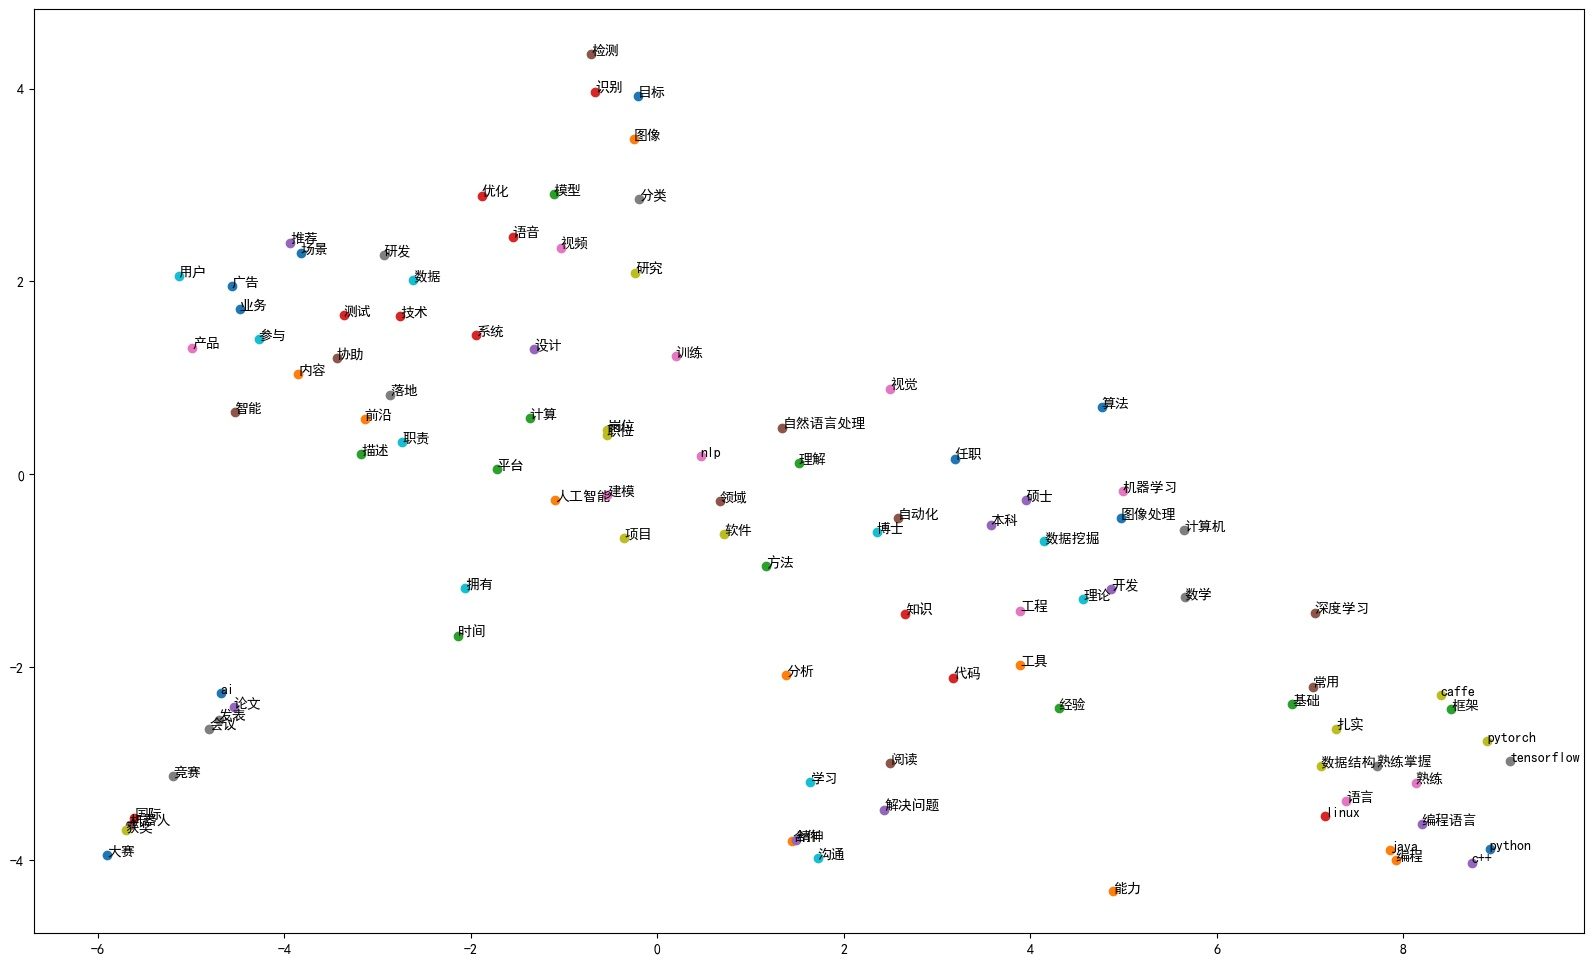
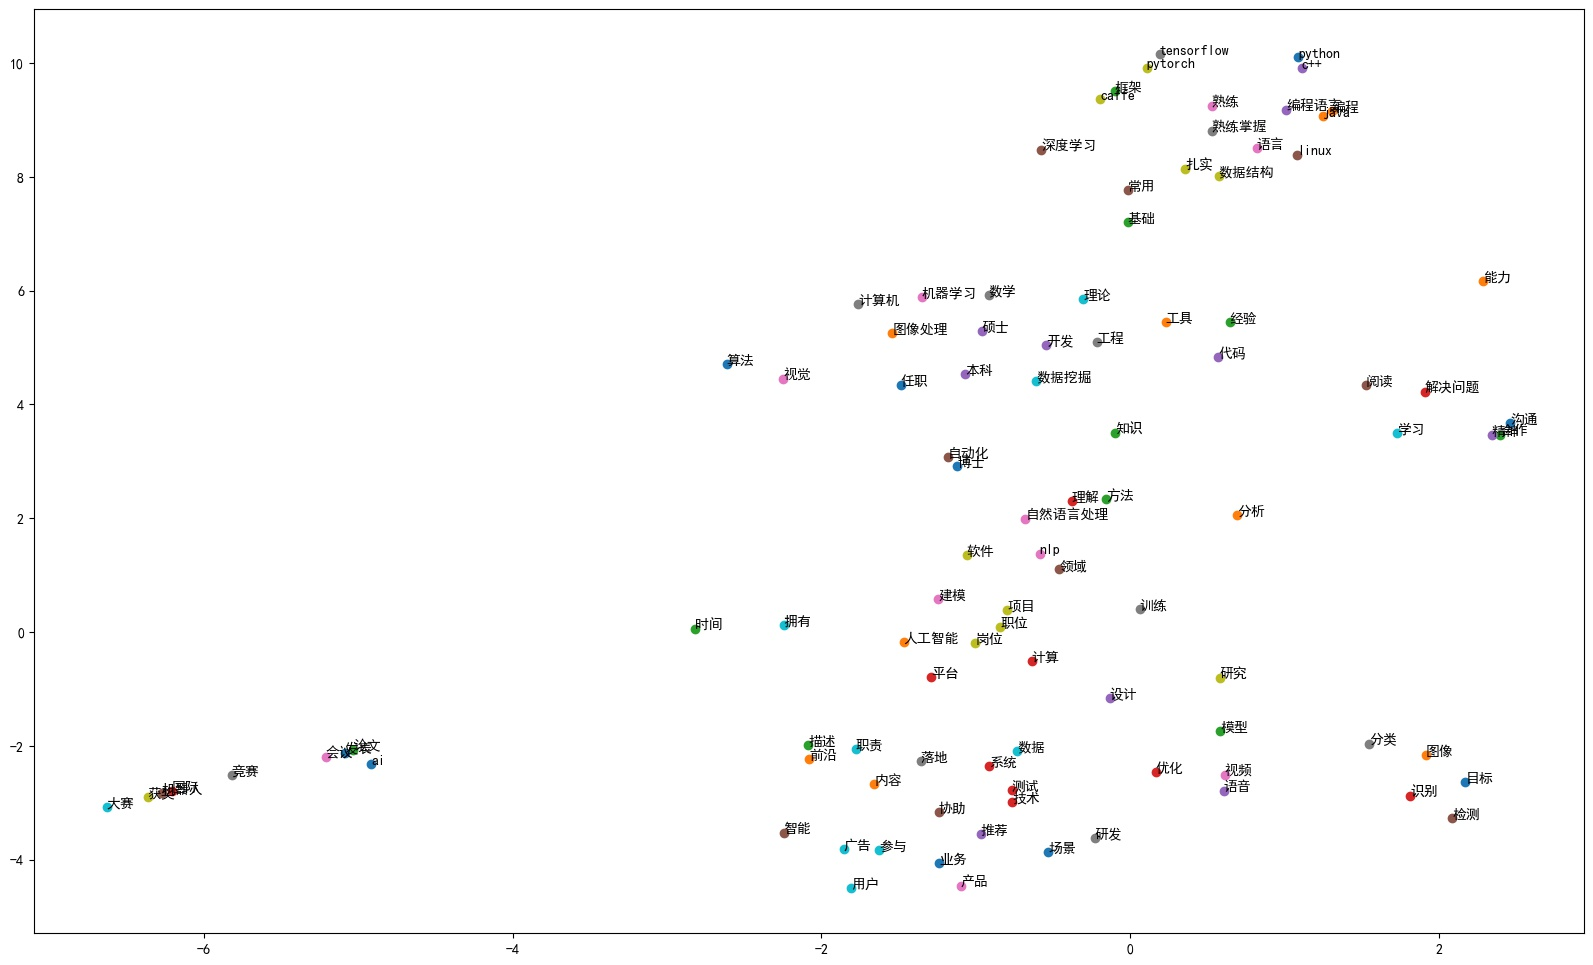
update cluster and color item

diff --git a/SXSperprocesing.py b/SXSperprocesing.py
@@ -16,7 +16,12 @@ import re
 from gensim.models import Word2Vec
 from sklearn.decomposition import PCA
 from sklearn.manifold import TSNE
+from sklearn.cluster import KMeans,MeanShift
 from mpl_toolkits.mplot3d import Axes3D
+from matplotlib import cm
+from numpy import linspace
+
+
 plt.rcParams['font.sans-serif']=['SimHei'] 
 plt.rcParams['axes.unicode_minus']=False
 
@@ -24,6 +29,7 @@ plt.rcParams['axes.unicode_minus']=False
 class SXSAnalyser:
     
     def __init__(self,path,userDict='./dict.txt',stopWords='./stopwords/sum.txt'):
+        self.__path = path
         self.__df = pd.read_csv(filepath_or_buffer=path,engine='python')
         jieba.load_userdict(userDict)
         stopWords = np.array(pd.read_csv(filepath_or_buffer=stopWords,header=None)).T.tolist()[0]
@@ -32,6 +38,14 @@ class SXSAnalyser:
         self.__RemoveStopWords(stopWords)
         self.__getWordFrequency()
         self.prapaerData()
+        
+    def __saveImag(self,plt,name):
+        path = './image/' + self.__path[2:-4] + name + '.jpg'
+        print(path)
+        if name != '3D':
+            plt.savefig(path,bbox_inches='tight')
+        else:
+            pass
         
     
     def prapaerData(self,select = 100,minCount = 10):
@@ -83,11 +97,17 @@ class SXSAnalyser:
     def draw2D(self):
         model = TSNE(n_components=2)
         result = model.fit_transform(self.__wordVector)
-        
+
+        fig = plt.figure(figsize=(20,12))
         for i,word in enumerate(self.__showWords):
                 plt.scatter(result[i,0],result[i,1])
                 plt.annotate(word,xy=(result[i,0],result[i,1]))
-        plt.show()
+        fig.show()
+        
+#调试代码，需要删除
+        self.result = result
+        
+        self.__saveImag(plt,'2D')
         
     def draw3D(self):
         model = PCA(n_components=3)
@@ -96,33 +116,62 @@ class SXSAnalyser:
         ax = plt.axes(projection='3d')
         fig = plt.figure()
         ax = Axes3D(fig)
-        
+
         for i,word in enumerate(self.__showWords):
                 ax.scatter3D(result[i,0],result[i,1],result[i,2])
                 ax.text(result[i,0],result[i,1],result[i,2],word)
+        self.__saveImag(ax,'3D')
     
     def drawCloud(self):
         wordList= ''
 
         word = np.array(self._wordStat['Word']).tolist()
         nums = np.array(self._wordStat['number']).tolist()
+        fig = plt.figure(figsize=(20,12))
+        
         for i in range(len(nums)):
             wordList += (word[i] + ' ')*nums[i]
     
         wordcloud = WordCloud(collocations=False,scale=8,font_path='simhei.ttf',background_color='white').generate(wordList)
         plt.imshow(wordcloud, interpolation='bilinear')
         plt.axis("off")
-        plt.show()
+        fig.show()
+        self.__saveImag(plt,'wordCloud')
         
     
     def drawBar(self,nums=35):
         pltData = self._wordStat.head(nums)
+        fig = plt.figure(figsize=(20,12))
+
         plt.xlabel('关键字')
         plt.ylabel('出现次数')
         plt.title('招聘关键字分析')
         plt.xticks(rotation = 45)
         plt.bar(pltData['Word'],pltData['number'])
-    
+        fig.show()
+        self.__saveImag(plt,'BarChart')
                 
 if __name__ == "__main__":
     ana = SXSAnalyser(path='./算法intern全国45.csv')
+    
+    data = data.tolist()
+    #color lable
+    color = {0: 'blue', 1: 'red', 2: 'black', 3: 'green'}
+
+#类聚
+    model = MeanShift(2)
+    lable = model.fit_predict(result)
+    
+    
+#color
+    cm_subsection = linspace(0,1,8)
+    colors = [ cm.rainbow (x) for x in cm_subsection]
+    for i, color in enumerate(colors):
+        plt.axhline(i, color=color)
+        
+    plt.ylabel('Line Number')
+    plt.show()
+    
+     for i in range(len(data)):
+        plt.scatter(data[i][0],data[i][1],color = colors[km[i]])
+    plt.show()
